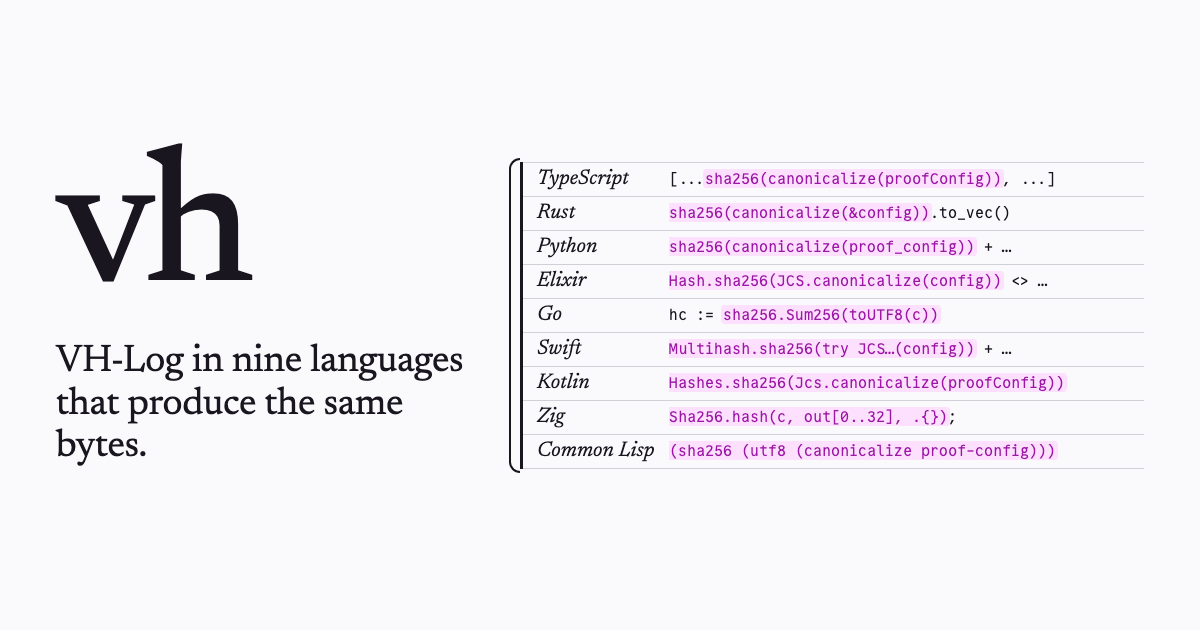
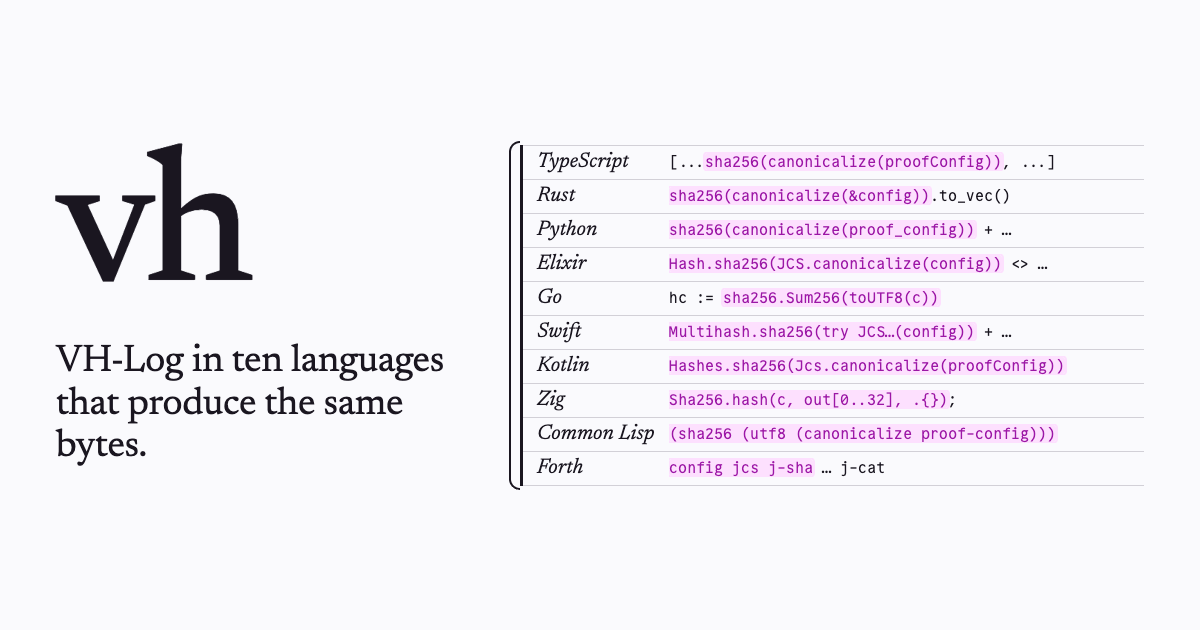
Add Forth to website comparisons and social preview

Changed region(s): [[0.4317, 0.2413, 0.925, 0.7841], [0.185, 0.5429, 0.4008, 0.6032]]

diff --git a/site/og.html b/site/og.html
@@ -25,7 +25,7 @@ mark { background: var(--hl); color: var(--accent); border-radius: 3px; box-shad
 <body>
 <div>
   <h1>vh</h1>
-  <p>VH&#8209;Log in nine languages that produce the same bytes.</p>
+  <p>VH&#8209;Log in ten languages that produce the same bytes.</p>
 </div>
 <div class="system">
   <div class="staff"><i>TypeScript</i><code>[...<mark>sha256(canonicalize(proofConfig))</mark>, ...]</code></div>
@@ -37,6 +37,7 @@ mark { background: var(--hl); color: var(--accent); border-radius: 3px; box-shad
   <div class="staff"><i>Kotlin</i><code><mark>Hashes.sha256(Jcs.canonicalize(proofConfig))</mark></code></div>
   <div class="staff"><i>Zig</i><code><mark>Sha256.hash(c, out[0..32], .{})</mark>;</code></div>
   <div class="staff"><i>Common Lisp</i><code><mark>(sha256 (utf8 (canonicalize proof-config)))</mark></code></div>
+  <div class="staff"><i>Forth</i><code><mark>config jcs j-sha</mark> … j-cat</code></div>
 </div>
 </body>
 </html>
